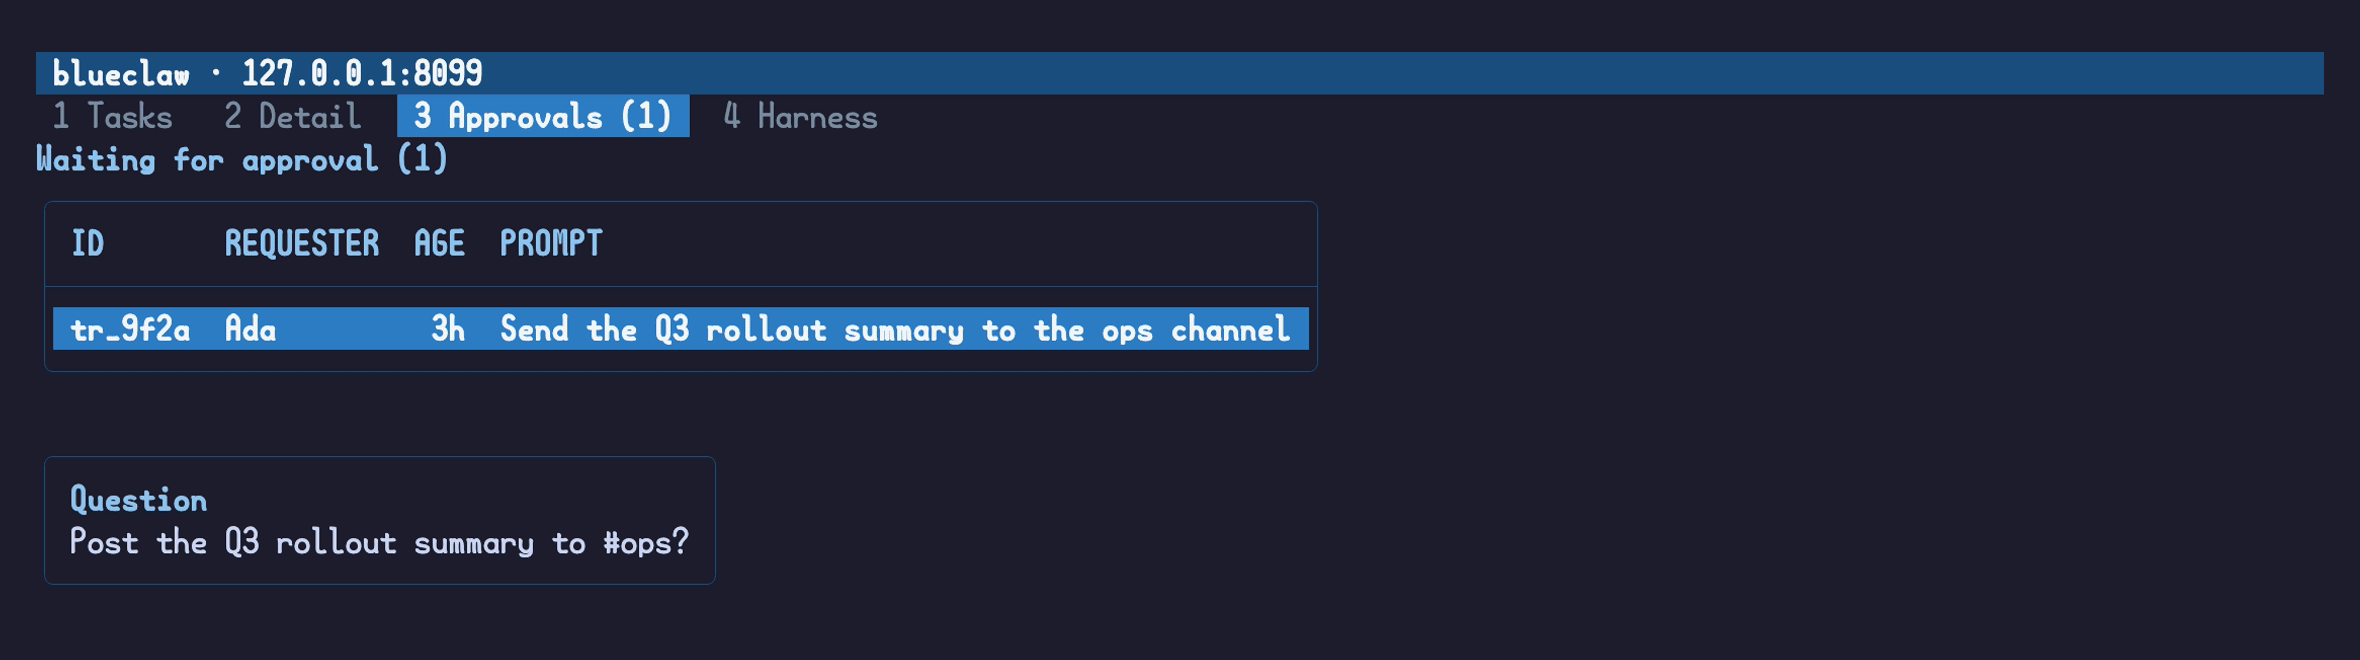
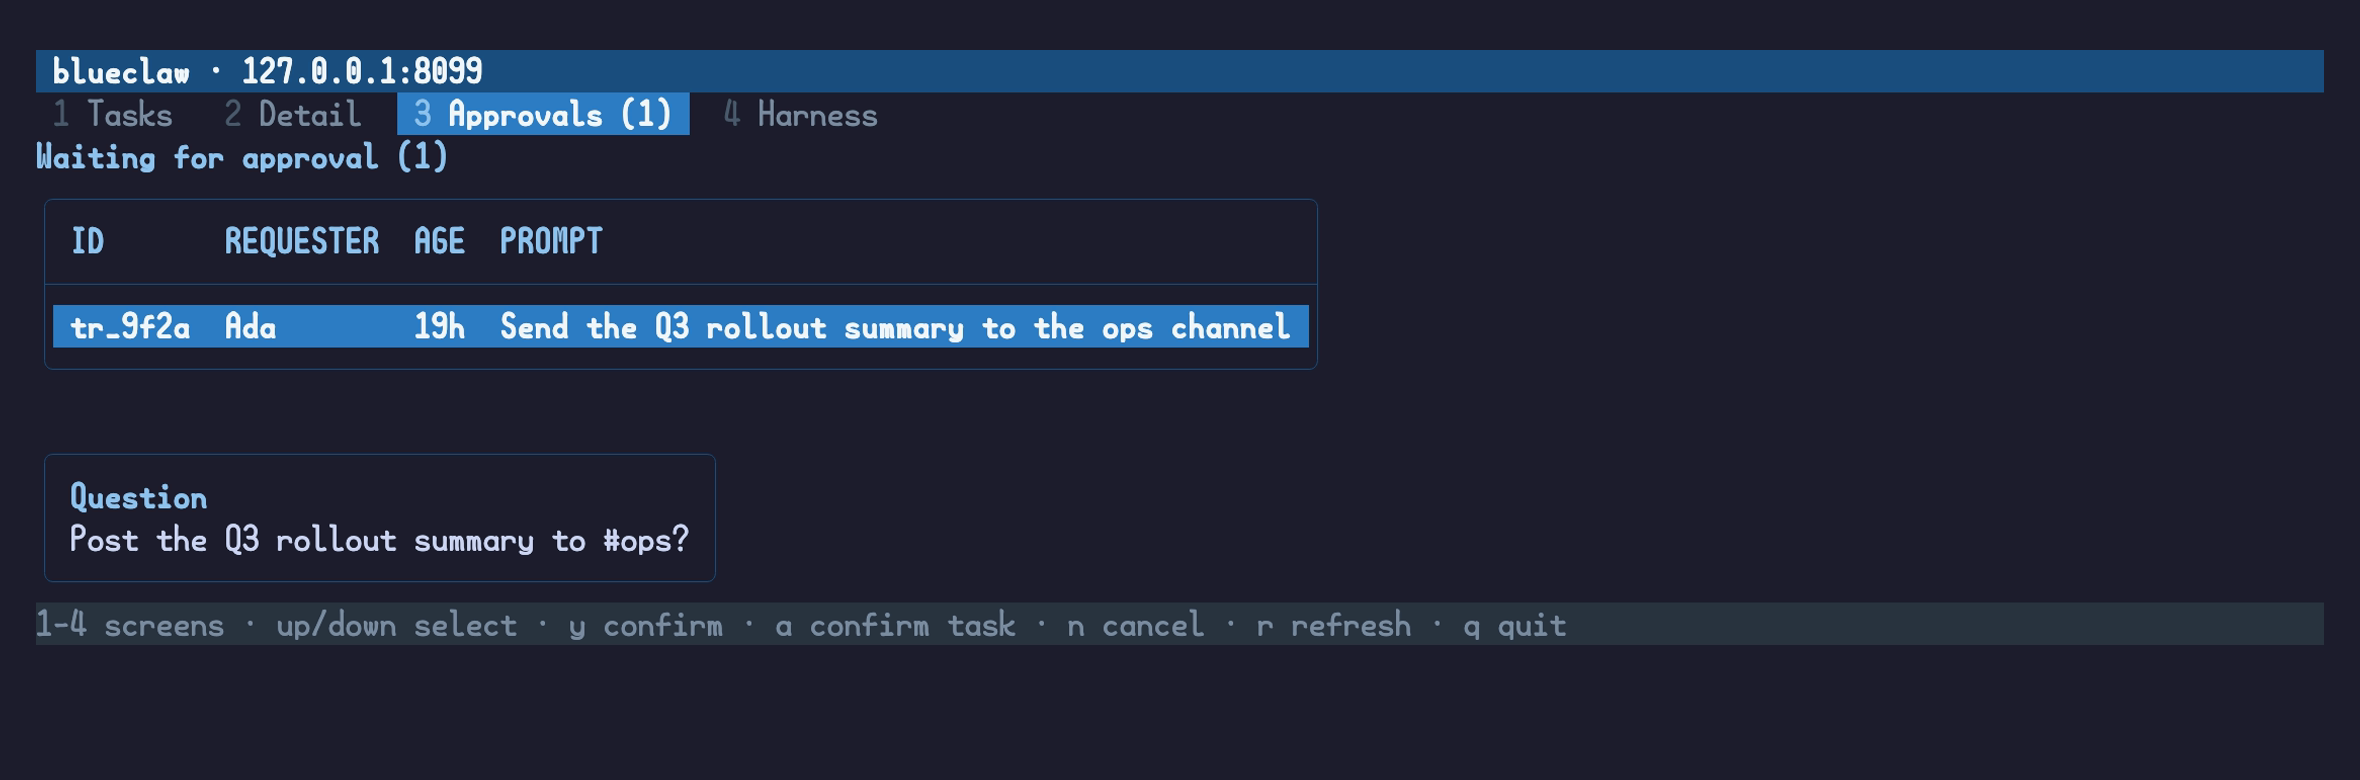
feat: give the terminal user interface the chrome the design pass asked for
A design pass produced five findings that were never applied. They are all
about the frame around the content rather than the content, and the frame is
what made the screen feel unfinished.

The footer was bare text, and a connection error stacked a second line above
it, so the whole layout jumped on every poll. It is now one full-width
surfaced line with the error as a badge on the right, which cannot shift
anything.

Empty states were one dim line, indistinguishable from a loading glitch. The
tab digits carried the same weight as the labels, so four tabs read as eight
tokens. Every task run was rendered, so a long list ran off the bottom with
nothing saying so; the table now scrolls with the cursor and the title says
which row is selected. Timeline entries coloured whole sentences and changed
shape per kind; they now share one shape with colour on the symbol alone.

Rendering the dimmed digit inside the active tab's style reset the tab's
background halfway through, the same failure the task-row highlight test was
written for, so the digit and the label render side by side and a test guards
it.

Changed region(s): [[0.0, 0.0606, 0.9898, 0.5455], [0.0, 0.6061, 0.6805, 0.8485]]

diff --git a/internal/tui/view.go b/internal/tui/view.go
@@ -23,12 +23,13 @@ func (model Model) View() tea.View {
 func (model Model) renderTabBar() string {
 	tabLabels := []struct {
 		screen screenID
+		digit  string
 		label  string
 	}{
-		{screenTasks, "1 Tasks"},
-		{screenDetail, "2 Detail"},
-		{screenApprovals, "3 Approvals"},
-		{screenHarness, "4 Harness"},
+		{screenTasks, "1", "Tasks"},
+		{screenDetail, "2", "Detail"},
+		{screenApprovals, "3", "Approvals"},
+		{screenHarness, "4", "Harness"},
 	}
 	renderedTabs := make([]string, 0, len(tabLabels))
 	for _, tabLabel := range tabLabels {
@@ -38,13 +39,16 @@ func (model Model) renderTabBar() string {
 				label = fmt.Sprintf("%s (%d)", label, waitingCount)
 			}
 		}
-		if tabLabel.screen == model.screen {
-			renderedTabs = append(renderedTabs, styleTabActive.Render(label))
-		} else {
-			renderedTabs = append(renderedTabs, styleTabIdle.Render(label))
-		}
+		renderedTabs = append(renderedTabs, renderTab(tabLabel.digit, label, tabLabel.screen == model.screen))
 	}
 	return styleHeaderBar.Width(maximumInt(model.width, 0)).Render(model.headerTitle()) + "\n" + strings.Join(renderedTabs, " ")
+}
+
+func renderTab(digit string, label string, isActive bool) string {
+	if isActive {
+		return styleTabActiveDigit.Render(" "+digit) + styleTabActive.Render(" "+label+" ")
+	}
+	return styleTabIdleDigit.Render(" "+digit) + styleTabIdle.Render(" "+label+" ")
 }
 
 func (model Model) headerTitle() string {
@@ -82,23 +86,25 @@ func (model Model) renderScreenBody() string {
 }
 
 func (model Model) renderFooter() string {
-	connectionNotice := ""
-	if model.taskRunsError != nil {
-		connectionNotice = styleError.Render("connection: " + model.taskRunsError.Error())
-	}
-	helpText := styleFooter.Render("1-4 screens · tab/shift+tab cycle · up/down select · enter open · r refresh · q quit")
+	helpText := "1-4 screens · tab/shift+tab cycle · up/down select · enter open · r refresh · q quit"
 	if model.screen == screenApprovals {
-		helpText = styleFooter.Render("1-4 screens · up/down select · y confirm · a confirm task · n cancel · r refresh · q quit")
+		helpText = "1-4 screens · up/down select · y confirm · a confirm task · n cancel · r refresh · q quit"
 	}
-	if connectionNotice != "" {
-		return connectionNotice + "\n" + helpText
+	connectionBadge := ""
+	if model.taskRunsError != nil {
+		connectionBadge = " " + truncateText(model.taskRunsError.Error(), 40) + " "
 	}
-	return helpText
+	return renderStatusBar(model.width, helpText, connectionBadge)
+}
+
+func renderStatusBar(width int, helpText string, connectionBadge string) string {
+	helpWidth := maximumInt(width-lipgloss.Width(connectionBadge), 0)
+	return styleFooter.Width(helpWidth).Render(truncateText(helpText, helpWidth)) + styleStatusBadge.Render(connectionBadge)
 }
 
 func (model Model) renderTasksScreen() string {
 	if len(model.taskRuns) == 0 && model.taskRunsError == nil {
-		return renderEmptyState("No task runs yet", "Task runs appear here as they arrive. Press r to refresh.")
+		return model.renderEmptyState("No task runs yet", "Task runs appear here as they arrive. Press r to refresh.")
 	}
 	rows := make([][]string, 0, len(model.taskRuns))
 	for _, taskRun := range model.taskRuns {
@@ -110,27 +116,74 @@ func (model Model) renderTasksScreen() string {
 			truncateText(taskRun.Prompt, 60),
 		})
 	}
+	window := tableWindowFor(model.bodyHeight()-sectionTitleLineCount, len(rows), model.tasksCursor)
 	return strings.Join([]string{
-		styleSectionTitle.Render(fmt.Sprintf("Task runs (%d)", len(model.taskRuns))),
-		renderTaskTable([]string{"ID", "STATUS", "REQUESTER", "AGE", "PROMPT"}, rows, model.tasksCursor, columnTaskStatus),
+		styleSectionTitle.Render(fmt.Sprintf("Task runs (%d)", len(model.taskRuns))) + renderScrollIndicator(window, model.tasksCursor, len(rows)),
+		renderTaskTable([]string{"ID", "STATUS", "REQUESTER", "AGE", "PROMPT"}, rows, model.tasksCursor, columnTaskStatus, window),
 	}, "\n")
 }
 
 const (
 	columnTaskStatus   = 1
 	columnNoneIsStatus = -1
+
+	headerAndTabLineCount       = 2
+	statusBarLineCount          = 1
+	sectionTitleLineCount       = 1
+	approvalPanelLineCount      = 6
+	tableChromeLineCount        = 5
+	minimumVisibleTableRowCount = 3
 )
 
-func renderTaskTable(headers []string, rows [][]string, selectedRow int, statusColumn int) string {
+func (model Model) bodyHeight() int {
+	return model.height - headerAndTabLineCount - statusBarLineCount
+}
+
+type tableWindow struct {
+	firstRow    int
+	visibleRows int
+}
+
+func (window tableWindow) isScrolling() bool {
+	return window.visibleRows > 0
+}
+
+func tableWindowFor(availableHeight int, rowCount int, selectedRow int) tableWindow {
+	visibleRows := availableHeight - tableChromeLineCount
+	if visibleRows < minimumVisibleTableRowCount || visibleRows >= rowCount {
+		return tableWindow{}
+	}
+	firstRow := selectedRow - visibleRows/2
+	if firstRow < 0 {
+		firstRow = 0
+	}
+	if firstRow > rowCount-visibleRows {
+		firstRow = rowCount - visibleRows
+	}
+	return tableWindow{firstRow: firstRow, visibleRows: visibleRows}
+}
+
+func renderScrollIndicator(window tableWindow, selectedRow int, rowCount int) string {
+	if !window.isScrolling() {
+		return ""
+	}
+	return styleMuted.Render(fmt.Sprintf("  row %d of %d", selectedRow+1, rowCount))
+}
+
+func renderTaskTable(headers []string, rows [][]string, selectedRow int, statusColumn int, window tableWindow) string {
 	ageColumn := len(headers) - 2
 	promptColumn := len(headers) - 1
-	return table.New().
+	taskTable := table.New().
 		Border(lipgloss.RoundedBorder()).
 		BorderStyle(lipgloss.NewStyle().Foreground(colorBrandDeep)).
 		BorderColumn(false).
 		BorderRow(false).
 		Headers(headers...).
-		Rows(rows...).
+		Rows(rows...)
+	if window.isScrolling() {
+		taskTable = taskTable.Height(window.visibleRows + tableChromeLineCount).YOffset(window.firstRow)
+	}
+	return taskTable.
 		StyleFunc(func(row int, column int) lipgloss.Style {
 			if row == table.HeaderRow {
 				return styleTableCell.Foreground(colorBrandSoft).Bold(true)
@@ -153,12 +206,17 @@ func renderTaskTable(headers []string, rows [][]string, selectedRow int, statusC
 		Render()
 }
 
-func renderEmptyState(title string, detail string) string {
-	return strings.Join([]string{
+func (model Model) renderEmptyState(title string, detail string) string {
+	block := lipgloss.JoinVertical(lipgloss.Center,
+		styleEmptySymbol.Render("◌"),
 		"",
 		styleSectionTitle.Render(title),
 		styleMuted.Render(detail),
-	}, "\n")
+	)
+	if model.width <= lipgloss.Width(block) || model.bodyHeight() <= lipgloss.Height(block) {
+		return block
+	}
+	return lipgloss.Place(model.width, model.bodyHeight(), lipgloss.Center, lipgloss.Center, block)
 }
 
 func (model Model) renderDetailScreen() string {
@@ -190,33 +248,35 @@ func (model Model) renderDetailScreen() string {
 }
 
 func renderTimelineEntry(entry TimelineEntry) string {
-	timestamp := entry.Time.Format("15:04:05")
+	symbol, symbolStyle, text := timelineEntryParts(entry)
+	return fmt.Sprintf("%s %s %s", styleMuted.Render(entry.Time.Format("15:04:05")), symbolStyle.Render(symbol), text)
+}
+
+func timelineEntryParts(entry TimelineEntry) (string, lipgloss.Style, string) {
 	switch entry.Kind {
 	case TimelineEntryToolCall:
-		resultLabel := styleMuted.Render("(pending)")
-		if entry.HasResult {
-			if entry.ResultIsFailure {
-				resultLabel = styleFailure.Render("failed: " + truncateText(entry.ResultSummary, 80))
-			} else {
-				resultLabel = styleSuccess.Render("ok: " + truncateText(entry.ResultSummary, 80))
-			}
+		if !entry.HasResult {
+			return "◦", styleMuted, entry.ToolName + " " + styleMuted.Render("(pending)")
 		}
-		return fmt.Sprintf("%s  tool %s  %s", timestamp, entry.ToolName, resultLabel)
+		if entry.ResultIsFailure {
+			return "✗", styleFailure, entry.ToolName + " " + truncateText(entry.ResultSummary, 80)
+		}
+		return "✓", styleSuccess, entry.ToolName + " " + truncateText(entry.ResultSummary, 80)
 	case TimelineEntryAgentMessage:
-		return fmt.Sprintf("%s  agent: %s", timestamp, truncateText(entry.Message, 100))
+		return "▸", styleAccent, truncateText(entry.Message, 100)
 	case TimelineEntryApprovalPending:
-		return fmt.Sprintf("%s  %s", timestamp, styleWarning.Render("approval requested: "+truncateText(entry.Message, 100)))
+		return "?", styleWarning, "approval requested: " + truncateText(entry.Message, 100)
 	case TimelineEntryApprovalExecuted:
-		return fmt.Sprintf("%s  %s", timestamp, styleSuccess.Render("approval resolved for "+entry.ToolName))
+		return "✓", styleSuccess, "approval resolved for " + entry.ToolName
 	default:
-		return fmt.Sprintf("%s  %s", timestamp, styleMuted.Render(entry.RawEventName))
+		return "·", styleMuted, styleMuted.Render(entry.RawEventName)
 	}
 }
 
 func (model Model) renderApprovalsScreen() string {
 	waitingTaskRuns := model.waitingApprovalTaskRuns()
 	if len(waitingTaskRuns) == 0 {
-		return renderEmptyState("Nothing is waiting for approval", "Task runs that need a human decision appear here.")
+		return model.renderEmptyState("Nothing is waiting for approval", "Task runs that need a human decision appear here.")
 	}
 	rows := make([][]string, 0, len(waitingTaskRuns))
 	for _, taskRun := range waitingTaskRuns {
@@ -227,9 +287,10 @@ func (model Model) renderApprovalsScreen() string {
 			truncateText(taskRun.Prompt, 60),
 		})
 	}
+	window := tableWindowFor(model.bodyHeight()-sectionTitleLineCount-approvalPanelLineCount, len(rows), model.approvalCursor)
 	lines := []string{
-		styleSectionTitle.Render(fmt.Sprintf("Waiting for approval (%d)", len(waitingTaskRuns))),
-		renderTaskTable([]string{"ID", "REQUESTER", "AGE", "PROMPT"}, rows, model.approvalCursor, columnNoneIsStatus),
+		styleSectionTitle.Render(fmt.Sprintf("Waiting for approval (%d)", len(waitingTaskRuns))) + renderScrollIndicator(window, model.approvalCursor, len(rows)),
+		renderTaskTable([]string{"ID", "REQUESTER", "AGE", "PROMPT"}, rows, model.approvalCursor, columnNoneIsStatus, window),
 	}
 
 	selectedApproval, hasSelection := model.selectedApprovalTaskRun()

diff --git a/internal/tui/chrome_test.go b/internal/tui/chrome_test.go
@@ -1,0 +1,77 @@
+package tui
+
+import (
+	"errors"
+	"regexp"
+	"strings"
+	"testing"
+	"time"
+
+	lipgloss "charm.land/lipgloss/v2"
+)
+
+var ansiEscape = regexp.MustCompile(`\x1b\[[0-9;]*m`)
+
+func TestTheStatusBarKeepsItsShapeWhenTheConnectionFails(testInstance *testing.T) {
+	connected := Model{screen: screenTasks, width: 100}
+	disconnected := Model{screen: screenTasks, width: 100, taskRunsError: errors.New("dial tcp 127.0.0.1:8080: connection refused")}
+
+	for name, footer := range map[string]string{"connected": connected.renderFooter(), "disconnected": disconnected.renderFooter()} {
+		if lineCount := strings.Count(footer, "\n") + 1; lineCount != 1 {
+			testInstance.Fatalf("%s footer takes %d lines; a second line shifts the layout on every poll", name, lineCount)
+		}
+		if width := lipgloss.Width(footer); width != 100 {
+			testInstance.Fatalf("%s footer is %d columns wide, expected the full 100", name, width)
+		}
+	}
+}
+
+func TestTheActiveTabHighlightSurvivesTheDimmedDigit(testInstance *testing.T) {
+	activeTab := renderTab("1", "Tasks", true)
+
+	if unhighlighted := textRunsWithoutBackground(activeTab, "48;2;46;125;196"); len(unhighlighted) > 0 {
+		testInstance.Fatalf("the active tab highlight breaks after the digit; these runs carry no background: %q in %q", unhighlighted, activeTab)
+	}
+}
+
+func TestTheTableWindowAlwaysContainsTheSelectedRow(testInstance *testing.T) {
+	const rowCount, availableHeight = 40, 15
+	for selectedRow := 0; selectedRow < rowCount; selectedRow++ {
+		window := tableWindowFor(availableHeight, rowCount, selectedRow)
+		if !window.isScrolling() {
+			testInstance.Fatalf("40 rows in %d lines should scroll, got %+v", availableHeight, window)
+		}
+		if window.firstRow < 0 || window.firstRow+window.visibleRows > rowCount {
+			testInstance.Fatalf("row %d produced the window %+v, which runs off the list of %d", selectedRow, window, rowCount)
+		}
+		if selectedRow < window.firstRow || selectedRow >= window.firstRow+window.visibleRows {
+			testInstance.Fatalf("row %d is outside its own window %+v", selectedRow, window)
+		}
+	}
+}
+
+func TestATableThatFitsIsNotScrolled(testInstance *testing.T) {
+	if window := tableWindowFor(40, 5, 0); window.isScrolling() {
+		testInstance.Fatalf("five rows in a 40-line body asked for the window %+v; it should render whole", window)
+	}
+}
+
+func TestEveryTimelineEntryHasTheSameShape(testInstance *testing.T) {
+	entryTime := time.Date(2026, 8, 5, 14, 3, 9, 0, time.UTC)
+	entries := []TimelineEntry{
+		{Kind: TimelineEntryToolCall, Time: entryTime, ToolName: "terminal_run"},
+		{Kind: TimelineEntryToolCall, Time: entryTime, ToolName: "terminal_run", HasResult: true, ResultSummary: "done"},
+		{Kind: TimelineEntryToolCall, Time: entryTime, ToolName: "terminal_run", HasResult: true, ResultIsFailure: true, ResultSummary: "exit 1"},
+		{Kind: TimelineEntryAgentMessage, Time: entryTime, Message: "reading the ledger"},
+		{Kind: TimelineEntryApprovalPending, Time: entryTime, Message: "send the summary"},
+		{Kind: TimelineEntryApprovalExecuted, Time: entryTime, ToolName: "message_send"},
+		{Time: entryTime, RawEventName: "task.started"},
+	}
+	shape := regexp.MustCompile(`^14:03:09 \S `)
+	for _, entry := range entries {
+		plainText := ansiEscape.ReplaceAllString(renderTimelineEntry(entry), "")
+		if !shape.MatchString(plainText) {
+			testInstance.Fatalf("timeline entry %v does not start with a timestamp and a one-rune symbol: %q", entry.Kind, plainText)
+		}
+	}
+}

diff --git a/internal/tui/styles.go b/internal/tui/styles.go
@@ -12,26 +12,33 @@ var (
 	colorBrandSoft = lipgloss.Color("#8FC3EE")
 	colorInk       = lipgloss.Color("#F2F7FB")
 	colorMuted     = lipgloss.Color("#7A8CA0")
+	colorFaint     = lipgloss.Color("#4A5A6B")
+	colorSurface   = lipgloss.Color("#2A3441")
 	colorSuccess   = lipgloss.Color("#5FC98A")
 	colorWarning   = lipgloss.Color("#E7B05A")
 	colorFailure   = lipgloss.Color("#E8697D")
 )
 
 var (
-	styleHeaderBar    = lipgloss.NewStyle().Bold(true).Foreground(colorInk).Background(colorBrandDeep).Padding(0, 1)
-	styleTabActive    = lipgloss.NewStyle().Bold(true).Foreground(colorInk).Background(colorBrand).Padding(0, 1)
-	styleTabIdle      = lipgloss.NewStyle().Foreground(colorMuted).Padding(0, 1)
-	styleFooter       = lipgloss.NewStyle().Foreground(colorMuted)
-	styleError        = lipgloss.NewStyle().Bold(true).Foreground(colorFailure)
-	styleWarning      = lipgloss.NewStyle().Foreground(colorWarning)
-	styleMuted        = lipgloss.NewStyle().Foreground(colorMuted)
-	styleSelected     = lipgloss.NewStyle().Bold(true).Foreground(colorInk).Background(colorBrand)
-	styleTableCell    = lipgloss.NewStyle().Padding(0, 1)
-	stylePanel        = lipgloss.NewStyle().Border(lipgloss.RoundedBorder()).BorderForeground(colorBrandDeep).Padding(0, 1)
-	styleSuccess      = lipgloss.NewStyle().Foreground(colorSuccess)
-	styleFailure      = lipgloss.NewStyle().Foreground(colorFailure)
-	styleSectionTitle = lipgloss.NewStyle().Bold(true).Foreground(colorBrandSoft)
-	styleOK           = lipgloss.NewStyle().Foreground(colorSuccess)
+	styleHeaderBar      = lipgloss.NewStyle().Bold(true).Foreground(colorInk).Background(colorBrandDeep).Padding(0, 1)
+	styleTabActive      = lipgloss.NewStyle().Bold(true).Foreground(colorInk).Background(colorBrand)
+	styleTabIdle        = lipgloss.NewStyle().Foreground(colorMuted)
+	styleTabIdleDigit   = lipgloss.NewStyle().Foreground(colorFaint)
+	styleTabActiveDigit = lipgloss.NewStyle().Foreground(colorBrandSoft).Background(colorBrand)
+	styleFooter         = lipgloss.NewStyle().Foreground(colorMuted).Background(colorSurface)
+	styleStatusBadge    = lipgloss.NewStyle().Bold(true).Foreground(colorInk).Background(colorFailure)
+	styleEmptySymbol    = lipgloss.NewStyle().Foreground(colorBrandDeep)
+	styleAccent         = lipgloss.NewStyle().Foreground(colorBrandSoft)
+	styleError          = lipgloss.NewStyle().Bold(true).Foreground(colorFailure)
+	styleWarning        = lipgloss.NewStyle().Foreground(colorWarning)
+	styleMuted          = lipgloss.NewStyle().Foreground(colorMuted)
+	styleSelected       = lipgloss.NewStyle().Bold(true).Foreground(colorInk).Background(colorBrand)
+	styleTableCell      = lipgloss.NewStyle().Padding(0, 1)
+	stylePanel          = lipgloss.NewStyle().Border(lipgloss.RoundedBorder()).BorderForeground(colorBrandDeep).Padding(0, 1)
+	styleSuccess        = lipgloss.NewStyle().Foreground(colorSuccess)
+	styleFailure        = lipgloss.NewStyle().Foreground(colorFailure)
+	styleSectionTitle   = lipgloss.NewStyle().Bold(true).Foreground(colorBrandSoft)
+	styleOK             = lipgloss.NewStyle().Foreground(colorSuccess)
 )
 
 func statusColor(status string) color.Color {
